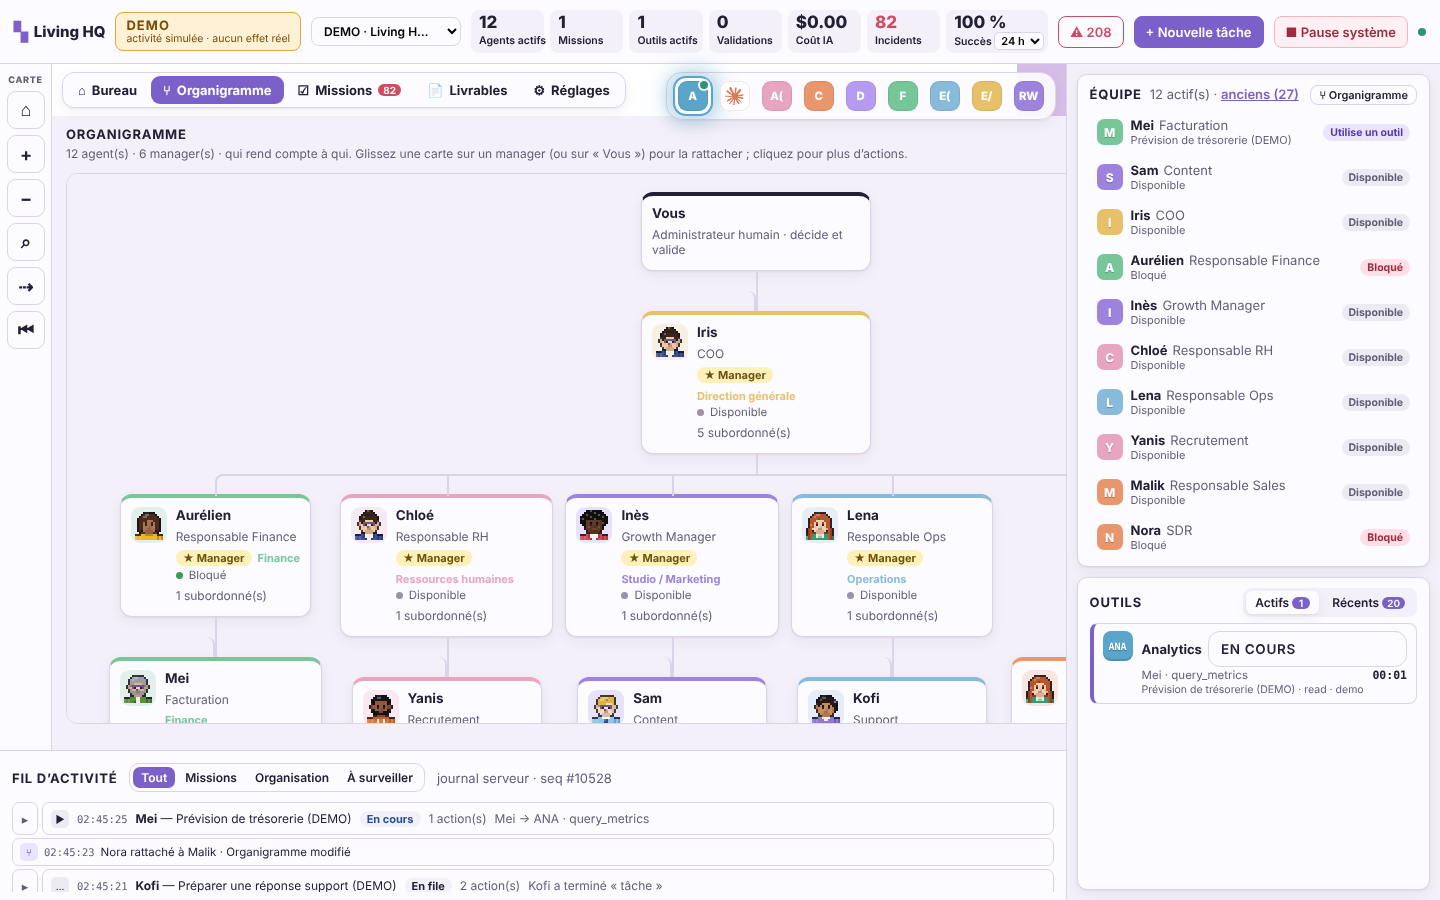
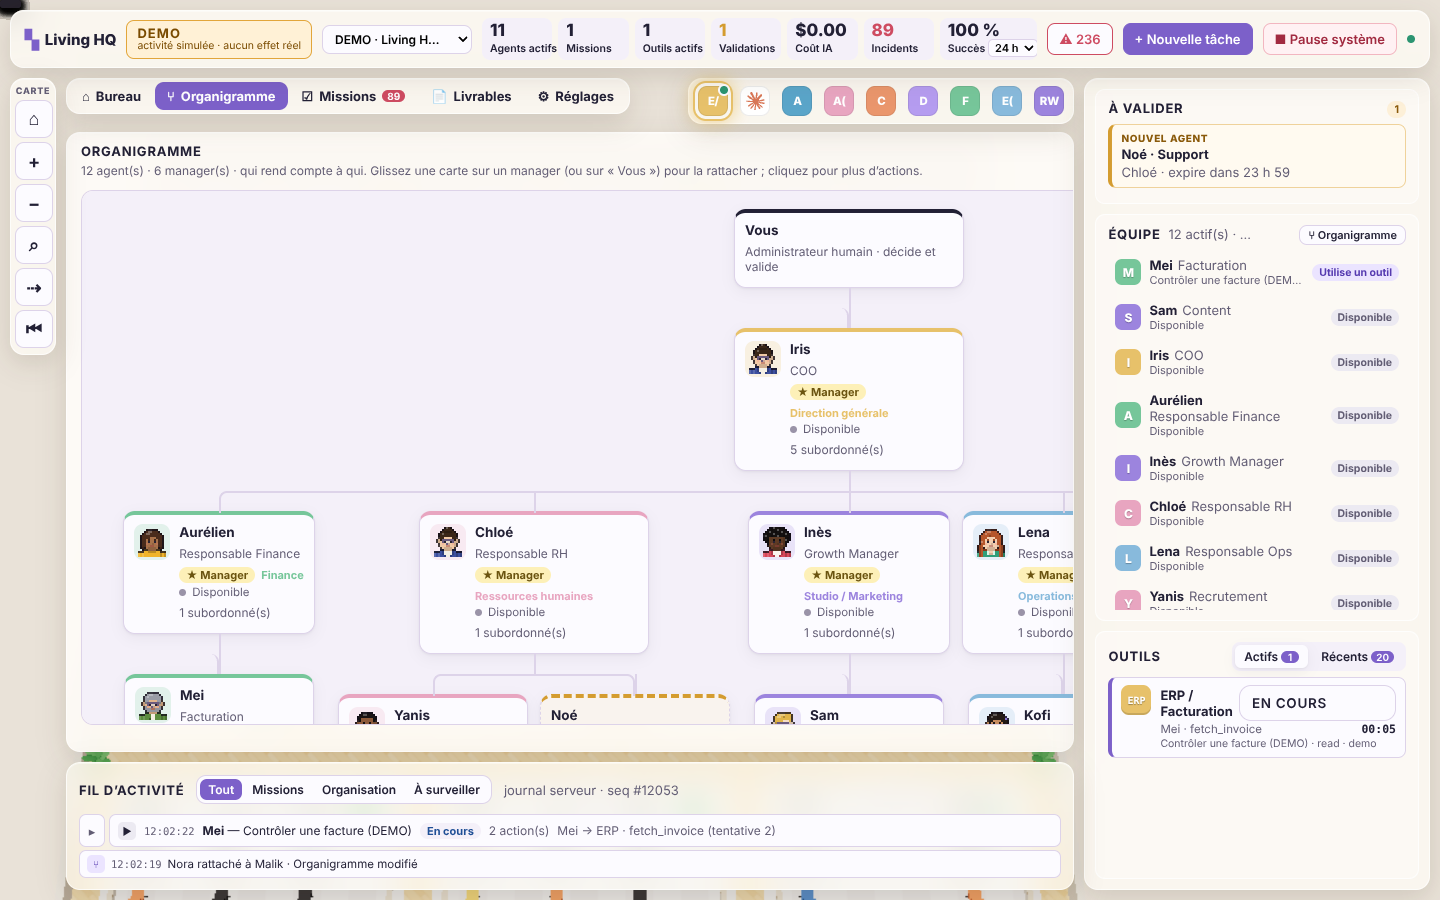
QG 3D : mode économe sans carte graphique, fiche et replay hors des panneaux
Rendu logiciel détecté : pas d'ombres ni de flou, cadence réduite.
La fiche agent reste dans la zone libre ; la barre de replay passe
sous les barres du haut.

Claude-Session: https://claude.ai/code/session_01DsWanc4oZCj3FsQZvrfyLX

Changed region(s): [[0.0, 0.0, 1.0, 1.0]]

diff --git a/apps/web/src/world/StudioScene.ts b/apps/web/src/world/StudioScene.ts
@@ -141,6 +141,8 @@ export class StudioScene implements HqWorldView {
   private night = false;
   private reduced = false;
   private raf = 0;
+  private lowPower = false;
+  private lastRender = 0;
   private last = 0;
   private ro: ResizeObserver;
   private avatars = new Map<string, Avatar>();
@@ -178,13 +180,17 @@ export class StudioScene implements HqWorldView {
     private readonly cb: WorldCallbacks,
   ) {
     this.reduced = window.matchMedia('(prefers-reduced-motion: reduce)').matches;
+    // Sans carte graphique (rendu logiciel) : mode économe, pour garder l'interface fluide.
+    this.lowPower = softwareRenderer();
+    // Signalé à l'interface : le verre dépoli (flou) est remplacé par un fond plus opaque.
+    if (this.lowPower) document.documentElement.dataset['lowgpu'] = '1';
     this.renderer = new THREE.WebGLRenderer({
-      antialias: true,
+      antialias: !this.lowPower,
       powerPreference: 'high-performance',
     });
     this.renderer.toneMapping = THREE.ACESFilmicToneMapping;
     this.renderer.toneMappingExposure = 1.0;
-    this.renderer.shadowMap.enabled = true;
+    this.renderer.shadowMap.enabled = !this.lowPower;
     this.renderer.shadowMap.type = THREE.PCFSoftShadowMap;
     this.canvas = this.renderer.domElement;
     this.canvas.className = 'studio-canvas';
@@ -978,7 +984,7 @@ export class StudioScene implements HqWorldView {
     const w = this.host.clientWidth;
     const h = this.host.clientHeight;
     if (!w || !h) return;
-    this.renderer.setPixelRatio(Math.min(window.devicePixelRatio, 2));
+    this.renderer.setPixelRatio(this.lowPower ? 0.75 : Math.min(window.devicePixelRatio, 2));
     this.renderer.setSize(w, h, false);
     this.cam.aspect = w / h;
     this.cam.updateProjectionMatrix();
@@ -1097,7 +1103,14 @@ export class StudioScene implements HqWorldView {
 
   // ------------------------------------------------------------------ animation
   private frame(t: number): void {
-    const dt = Math.min(0.05, (t - (this.last || t)) / 1000);
+    // Cadence plafonnée (≈30 img/s ; 8 en rendu logiciel) : le reste du temps va à l'interface.
+    const minGap = this.lowPower ? 125 : 30;
+    if (t - this.lastRender < minGap) {
+      this.raf = requestAnimationFrame((x) => this.frame(x));
+      return;
+    }
+    this.lastRender = t;
+    const dt = Math.min(this.lowPower ? 0.15 : 0.05, (t - (this.last || t)) / 1000);
     this.last = t;
     for (const av of this.avatars.values()) {
       this.step(av, dt);
@@ -1307,6 +1320,20 @@ export class StudioScene implements HqWorldView {
   }
   isWalking(id: string): boolean {
     return (this.avatars.get(id)?.path.length ?? 0) > 0;
+  }
+}
+
+/** Rendu WebGL logiciel (SwiftShader, llvmpipe…) : pas de carte graphique utilisable. */
+export function softwareRenderer(): boolean {
+  try {
+    const gl = document.createElement('canvas').getContext('webgl');
+    if (!gl) return true;
+    const ext = gl.getExtension('WEBGL_debug_renderer_info');
+    const name = ext ? String(gl.getParameter(ext.UNMASKED_RENDERER_WEBGL)) : '';
+    gl.getExtension('WEBGL_lose_context')?.loseContext();
+    return /swiftshader|llvmpipe|software|softpipe/i.test(name);
+  } catch {
+    return false;
   }
 }
 

diff --git a/apps/web/src/app/globals.css b/apps/web/src/app/globals.css
@@ -3682,3 +3682,29 @@ kbd {
   overflow: hidden;
   text-overflow: ellipsis;
 }
+/* Barre de replay : sous les barres du haut, dans la zone du monde. */
+.cockpit.immersive .replay-bar {
+  top: calc(var(--gap) * 3 + 58px + 44px);
+  left: calc(var(--gap) * 2 + var(--rail-w));
+  right: calc(var(--side-w) + var(--gap) * 2);
+  border-radius: 12px;
+  z-index: 27;
+}
+.cockpit.immersive.is-replay .filter-bar {
+  display: none;
+}
+/* Sans carte graphique : pas de flou d'arrière-plan (coûteux), verre plus opaque. */
+[data-lowgpu] .cockpit.immersive .topbar,
+[data-lowgpu] .cockpit.immersive .rail,
+[data-lowgpu] .cockpit.immersive .side,
+[data-lowgpu] .cockpit.immersive .feed,
+[data-lowgpu] .cockpit.immersive .view-tabs,
+[data-lowgpu] .cockpit.immersive .app-bar,
+[data-lowgpu] .cockpit.immersive .glass-ui,
+[data-lowgpu] .cockpit.immersive .world-pane .filter-bar .chips,
+[data-lowgpu] .cockpit.immersive .agent-popover .agent-card,
+[data-lowgpu] .cockpit.immersive .page {
+  -webkit-backdrop-filter: none;
+  backdrop-filter: none;
+  background: rgba(var(--glass-rgb), max(0.9, var(--ga)));
+}

diff --git a/apps/web/src/components/cockpit/AgentPopover.tsx b/apps/web/src/components/cockpit/AgentPopover.tsx
@@ -77,8 +77,14 @@ export function AgentPopover({
             y = ay - h * 0.35;
           }
         }
-        x = Math.max(8, Math.min(x, paneR.width - CARD_W - 8));
-        y = Math.max(48, Math.min(y, paneR.height - h - 8));
+        // Zone libre : ne pas passer sous les panneaux flottants (équipe, barres du haut).
+        const side = pane.closest('.cockpit')?.querySelector('.side')?.getBoundingClientRect();
+        const bar = pane.querySelector('.view-bar .view-tabs')?.getBoundingClientRect();
+        const maxX = (side && side.width > 0 ? side.left - paneR.left : paneR.width) - CARD_W - 8;
+        const minY = bar && bar.height > 0 ? bar.bottom - paneR.top + 8 : 48;
+        if (p && x > maxX) x = canR.left - paneR.left + p.x - GAP - CARD_W;
+        x = Math.max(8, Math.min(x, maxX));
+        y = Math.max(minY, Math.min(y, paneR.height - h - 8));
         el.style.transform = `translate(${Math.round(x)}px, ${Math.round(y)}px)`;
         el.style.opacity = '1';
       }
